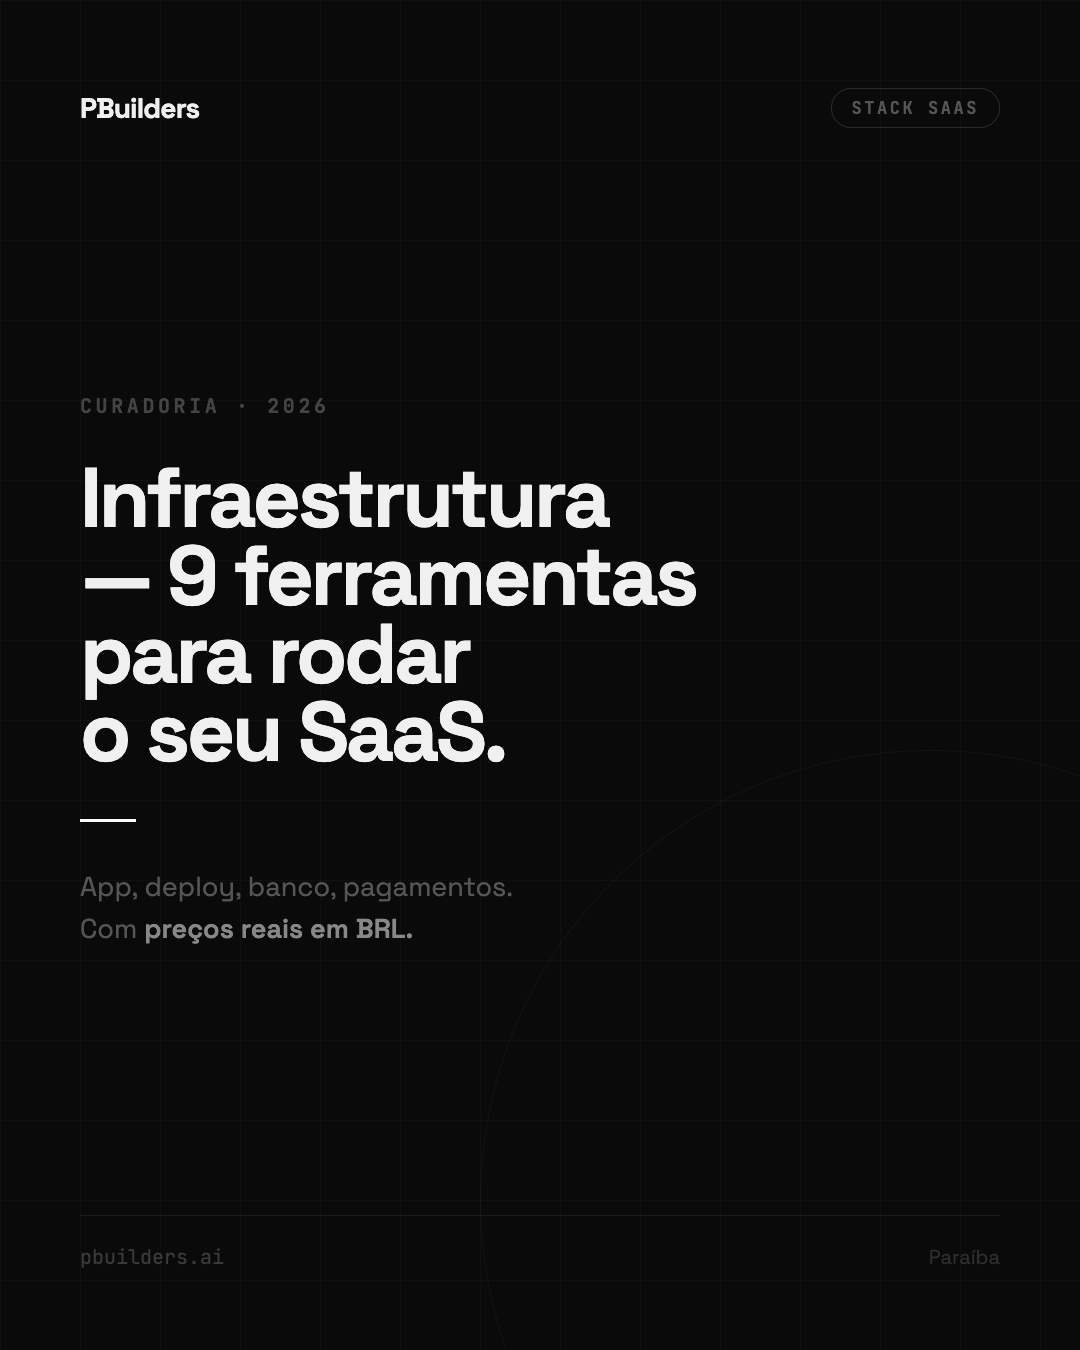
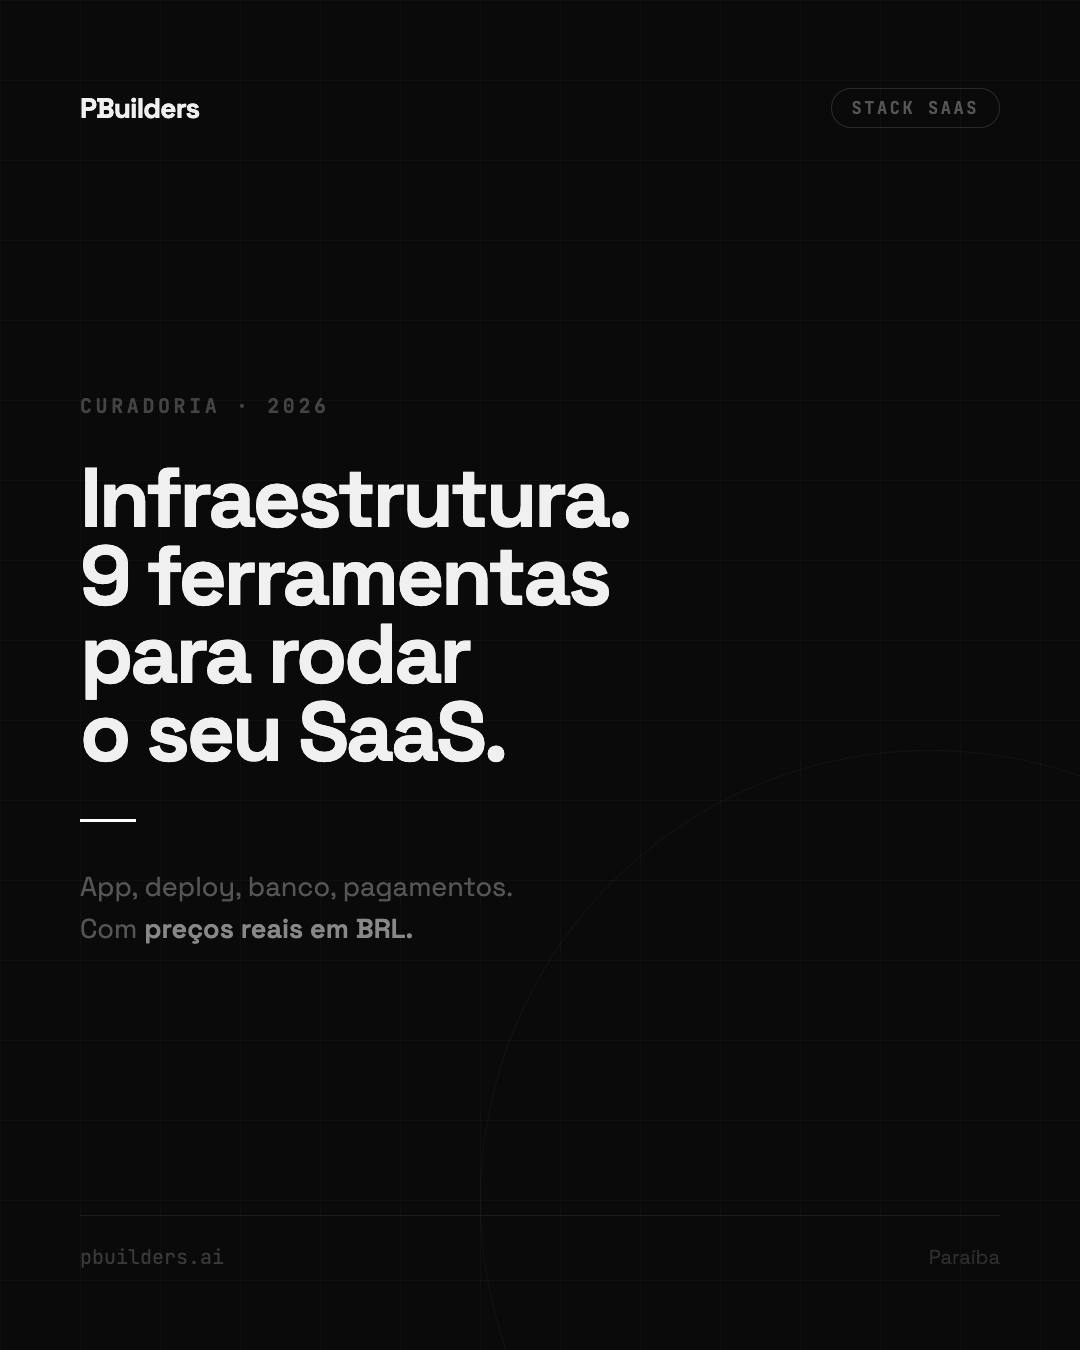
Corrigir headline slide 1 infra: remover em dash

Changed region(s): [[0.0611, 0.3733, 0.6417, 0.4667]]

diff --git a/content/2026-04-02-stack-saas-infraestrutura/carousel-infraestrutura.html b/content/2026-04-02-stack-saas-infraestrutura/carousel-infraestrutura.html
@@ -399,8 +399,8 @@
     <div class="body">
       <div class="eyebrow">Curadoria · 2026</div>
       <div class="headline">
-        <em>Infraestrutura</em>
-        <em>— 9 ferramentas</em>
+        <em>Infraestrutura.</em>
+        <em>9 ferramentas</em>
         <em>para rodar</em>
         <em>o seu SaaS.</em>
       </div>
